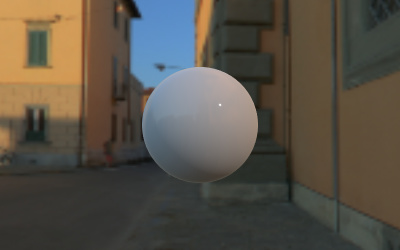
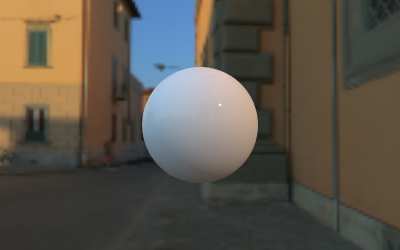
WebGLRenderer: Make use of SRGB8_ALPHA8. (#22551)
* WebGLRenderer: Make use of SRGB8_ALPHA8.

* Update screenshots.

* Updated builds.

* Revert "Update screenshots."

This reverts commit 9f7c6cb8ad2ba28515bd8ce909b661f14a59cf31.

* Update screenshots.

* Examples: Let SSRPass and SSRrPass work in linear space.

* Examples: Clean up.

* PMREMGenerator: Avoid inline decode/encode when using SRGB8_ALPHA8.

* Updated builds.

* Update screenshots.

* Revert "Updated builds."

This reverts commit 0fd81f8a8452323c0b21a880f6781e3456bf5fdb.

* Revert "Updated builds."

This reverts commit 447e88a55c47fd9163360c6be957b784d098f352.

Changed region(s): [[0.36, 0.252, 0.66, 0.644]]

diff --git a/src/renderers/webgl/WebGLTextures.js b/src/renderers/webgl/WebGLTextures.js
@@ -1,4 +1,4 @@
-import { LinearFilter, LinearMipmapLinearFilter, LinearMipmapNearestFilter, NearestFilter, NearestMipmapLinearFilter, NearestMipmapNearestFilter, RGBFormat, RGBAFormat, DepthFormat, DepthStencilFormat, UnsignedShortType, UnsignedIntType, UnsignedInt248Type, FloatType, HalfFloatType, MirroredRepeatWrapping, ClampToEdgeWrapping, RepeatWrapping } from '../../constants.js';
+import { LinearFilter, LinearMipmapLinearFilter, LinearMipmapNearestFilter, NearestFilter, NearestMipmapLinearFilter, NearestMipmapNearestFilter, RGBFormat, RGBAFormat, DepthFormat, DepthStencilFormat, UnsignedShortType, UnsignedIntType, UnsignedInt248Type, FloatType, HalfFloatType, MirroredRepeatWrapping, ClampToEdgeWrapping, RepeatWrapping, sRGBEncoding } from '../../constants.js';
 import * as MathUtils from '../../math/MathUtils.js';
 import { createElementNS } from '../../utils.js';
 
@@ -132,7 +132,7 @@ function WebGLTextures( _gl, extensions, state, properties, capabilities, utils,
 
 	}
 
-	function getInternalFormat( internalFormatName, glFormat, glType ) {
+	function getInternalFormat( internalFormatName, glFormat, glType, encoding ) {
 
 		if ( isWebGL2 === false ) return glFormat;
 
@@ -166,7 +166,7 @@ function WebGLTextures( _gl, extensions, state, properties, capabilities, utils,
 
 			if ( glType === _gl.FLOAT ) internalFormat = _gl.RGBA32F;
 			if ( glType === _gl.HALF_FLOAT ) internalFormat = _gl.RGBA16F;
-			if ( glType === _gl.UNSIGNED_BYTE ) internalFormat = _gl.RGBA8;
+			if ( glType === _gl.UNSIGNED_BYTE ) internalFormat = ( encoding === sRGBEncoding ) ? _gl.SRGB8_ALPHA8 : _gl.RGBA8;
 
 		}
 
@@ -532,7 +532,7 @@ function WebGLTextures( _gl, extensions, state, properties, capabilities, utils,
 			glFormat = utils.convert( texture.format );
 
 		let glType = utils.convert( texture.type ),
-			glInternalFormat = getInternalFormat( texture.internalFormat, glFormat, glType );
+			glInternalFormat = getInternalFormat( texture.internalFormat, glFormat, glType, texture.encoding );
 
 		setTextureParameters( textureType, texture, supportsMips );
 
@@ -758,7 +758,7 @@ function WebGLTextures( _gl, extensions, state, properties, capabilities, utils,
 			supportsMips = isPowerOfTwo( image ) || isWebGL2,
 			glFormat = utils.convert( texture.format ),
 			glType = utils.convert( texture.type ),
-			glInternalFormat = getInternalFormat( texture.internalFormat, glFormat, glType );
+			glInternalFormat = getInternalFormat( texture.internalFormat, glFormat, glType, texture.encoding );
 
 		setTextureParameters( _gl.TEXTURE_CUBE_MAP, texture, supportsMips );
 
@@ -857,7 +857,7 @@ function WebGLTextures( _gl, extensions, state, properties, capabilities, utils,
 
 		const glFormat = utils.convert( texture.format );
 		const glType = utils.convert( texture.type );
-		const glInternalFormat = getInternalFormat( texture.internalFormat, glFormat, glType );
+		const glInternalFormat = getInternalFormat( texture.internalFormat, glFormat, glType, texture.encoding );
 
 		if ( textureTarget === _gl.TEXTURE_3D || textureTarget === _gl.TEXTURE_2D_ARRAY ) {
 
@@ -938,7 +938,7 @@ function WebGLTextures( _gl, extensions, state, properties, capabilities, utils,
 
 			const glFormat = utils.convert( texture.format );
 			const glType = utils.convert( texture.type );
-			const glInternalFormat = getInternalFormat( texture.internalFormat, glFormat, glType );
+			const glInternalFormat = getInternalFormat( texture.internalFormat, glFormat, glType, texture.encoding );
 
 			if ( isMultisample ) {
 
@@ -1131,7 +1131,7 @@ function WebGLTextures( _gl, extensions, state, properties, capabilities, utils,
 
 					const glFormat = utils.convert( texture.format );
 					const glType = utils.convert( texture.type );
-					const glInternalFormat = getInternalFormat( texture.internalFormat, glFormat, glType );
+					const glInternalFormat = getInternalFormat( texture.internalFormat, glFormat, glType, texture.encoding );
 					const samples = getRenderTargetSamples( renderTarget );
 					_gl.renderbufferStorageMultisample( _gl.RENDERBUFFER, samples, glInternalFormat, renderTarget.width, renderTarget.height );
 

diff --git a/src/extras/PMREMGenerator.js b/src/extras/PMREMGenerator.js
@@ -8,6 +8,7 @@ import {
 	RGBDEncoding,
 	RGBEEncoding,
 	RGBEFormat,
+	RGBAFormat,
 	RGBM16Encoding,
 	RGBM7Encoding,
 	UnsignedByteType,
@@ -345,6 +346,20 @@ class PMREMGenerator {
 
 	}
 
+	_setEncoding( uniform, texture ) {
+
+		if ( this._renderer.capabilities.isWebGL2 === true && texture.format === RGBAFormat && texture.type === UnsignedByteType && texture.encoding === sRGBEncoding ) {
+
+			uniform.value = ENCODINGS[ LinearEncoding ];
+
+		} else {
+
+			uniform.value = ENCODINGS[ texture.encoding ];
+
+		}
+
+	}
+
 	_textureToCubeUV( texture, cubeUVRenderTarget ) {
 
 		const renderer = this._renderer;
@@ -380,8 +395,8 @@ class PMREMGenerator {
 
 		}
 
-		uniforms[ 'inputEncoding' ].value = ENCODINGS[ texture.encoding ];
-		uniforms[ 'outputEncoding' ].value = ENCODINGS[ cubeUVRenderTarget.texture.encoding ];
+		this._setEncoding( uniforms[ 'inputEncoding' ], texture );
+		this._setEncoding( uniforms[ 'outputEncoding' ], cubeUVRenderTarget.texture );
 
 		_setViewport( cubeUVRenderTarget, 0, 0, 3 * SIZE_MAX, 2 * SIZE_MAX );
 
@@ -512,8 +527,9 @@ class PMREMGenerator {
 
 		blurUniforms[ 'dTheta' ].value = radiansPerPixel;
 		blurUniforms[ 'mipInt' ].value = LOD_MAX - lodIn;
-		blurUniforms[ 'inputEncoding' ].value = ENCODINGS[ targetIn.texture.encoding ];
-		blurUniforms[ 'outputEncoding' ].value = ENCODINGS[ targetIn.texture.encoding ];
+
+		this._setEncoding( blurUniforms[ 'inputEncoding' ], targetIn.texture );
+		this._setEncoding( blurUniforms[ 'outputEncoding' ], targetIn.texture );
 
 		const outputSize = _sizeLods[ lodOut ];
 		const x = 3 * Math.max( 0, SIZE_MAX - 2 * outputSize );

diff --git a/examples/jsm/loaders/GLTFLoader.js b/examples/jsm/loaders/GLTFLoader.js
@@ -2761,30 +2761,12 @@ class GLTFParser {
 
 		let sourceURI = source.uri || '';
 		let isObjectURL = false;
-		let hasAlpha = true;
-
-		const isJPEG = sourceURI.search( /\.jpe?g($|\?)/i ) > 0 || sourceURI.search( /^data\:image\/jpeg/ ) === 0;
-
-		if ( source.mimeType === 'image/jpeg' || isJPEG ) hasAlpha = false;
 
 		if ( source.bufferView !== undefined ) {
 
 			// Load binary image data from bufferView, if provided.
 
 			sourceURI = parser.getDependency( 'bufferView', source.bufferView ).then( function ( bufferView ) {
-
-				if ( source.mimeType === 'image/png' ) {
-
-					// Inspect the PNG 'IHDR' chunk to determine whether the image could have an
-					// alpha channel. This check is conservative — the image could have an alpha
-					// channel with all values == 1, and the indexed type (colorType == 3) only
-					// sometimes contains alpha.
-					//
-					// https://en.wikipedia.org/wiki/Portable_Network_Graphics#File_header
-					const colorType = new DataView( bufferView, 25, 1 ).getUint8( 0, false );
-					hasAlpha = colorType === 6 || colorType === 4 || colorType === 3;
-
-				}
 
 				isObjectURL = true;
 				const blob = new Blob( [ bufferView ], { type: source.mimeType } );
@@ -2835,9 +2817,6 @@ class GLTFParser {
 			texture.flipY = false;
 
 			if ( textureDef.name ) texture.name = textureDef.name;
-
-			// When there is definitely no alpha channel in the texture, set RGBFormat to save space.
-			if ( ! hasAlpha ) texture.format = RGBFormat;
 
 			const samplers = json.samplers || {};
 			const sampler = samplers[ textureDef.sampler ] || {};

diff --git a/examples/webgl_postprocessing_ssr.html b/examples/webgl_postprocessing_ssr.html
@@ -27,6 +27,8 @@
 		import { GUI } from './jsm/libs/dat.gui.module.js';
 		import { EffectComposer } from './jsm/postprocessing/EffectComposer.js';
 		import { SSRPass } from './jsm/postprocessing/SSRPass.js';
+		import { ShaderPass } from './jsm/postprocessing/ShaderPass.js';
+		import { GammaCorrectionShader } from './jsm/shaders/GammaCorrectionShader.js';
 		import { ReflectorForSSRPass } from './jsm/objects/ReflectorForSSRPass.js';
 
 		import { DRACOLoader } from './jsm/loaders/DRACOLoader.js';
@@ -144,7 +146,6 @@
 			// renderer
 			renderer = new THREE.WebGLRenderer( { antialias: false } );
 			renderer.setSize( window.innerWidth, window.innerHeight );
-			renderer.outputEncoding = THREE.sRGBEncoding;
 			container.appendChild( renderer.domElement );
 
 			//
@@ -171,12 +172,12 @@
 				camera,
 				width: innerWidth,
 				height: innerHeight,
-				encoding: THREE.sRGBEncoding,
 				groundReflector: params.groundReflector ? groundReflector : null,
 				selects: params.groundReflector ? selects : null
 			} );
 
 			composer.addPass( ssrPass );
+			composer.addPass( new ShaderPass( GammaCorrectionShader ) );
 
 			// GUI
 

diff --git a/examples/webgl_postprocessing_ssrr.html b/examples/webgl_postprocessing_ssrr.html
@@ -28,6 +28,8 @@
 		import { GUI } from './jsm/libs/dat.gui.module.js';
 		import { EffectComposer } from './jsm/postprocessing/EffectComposer.js';
 		import { SSRrPass } from './jsm/postprocessing/SSRrPass.js';
+		import { ShaderPass } from './jsm/postprocessing/ShaderPass.js';
+		import { GammaCorrectionShader } from './jsm/shaders/GammaCorrectionShader.js';
 
 		import { DRACOLoader } from './jsm/loaders/DRACOLoader.js';
 
@@ -147,7 +149,6 @@
 			// renderer
 			renderer = new THREE.WebGLRenderer( { antialias: false } );
 			renderer.setSize( window.innerWidth, window.innerHeight );
-			renderer.outputEncoding = THREE.sRGBEncoding;
 			renderer.autoClear = false;
 			container.appendChild( renderer.domElement );
 
@@ -177,11 +178,11 @@
 				camera,
 				width: innerWidth,
 				height: innerHeight,
-				encoding: THREE.sRGBEncoding,
 				selects: selects
 			} );
 
 			composer.addPass( ssrrPass );
+			composer.addPass( new ShaderPass( GammaCorrectionShader ) );
 
 			// GUI
 

diff --git a/src/renderers/webgl/WebGLPrograms.js b/src/renderers/webgl/WebGLPrograms.js
@@ -1,4 +1,4 @@
-import { BackSide, DoubleSide, CubeUVRefractionMapping, CubeUVReflectionMapping, LinearEncoding, ObjectSpaceNormalMap, TangentSpaceNormalMap, NoToneMapping } from '../../constants.js';
+import { BackSide, DoubleSide, CubeUVRefractionMapping, CubeUVReflectionMapping, LinearEncoding, sRGBEncoding, ObjectSpaceNormalMap, TangentSpaceNormalMap, NoToneMapping, RGBAFormat, UnsignedByteType } from '../../constants.js';
 import { WebGLProgram } from './WebGLProgram.js';
 import { ShaderLib } from '../shaders/ShaderLib.js';
 import { UniformsUtils } from '../shaders/UniformsUtils.js';
@@ -103,6 +103,12 @@ function WebGLPrograms( renderer, cubemaps, cubeuvmaps, extensions, capabilities
 		} else {
 
 			encoding = LinearEncoding;
+
+		}
+
+		if ( isWebGL2 && map && map.isTexture && map.format === RGBAFormat && map.type === UnsignedByteType && map.encoding === sRGBEncoding ) {
+
+			encoding = LinearEncoding; // disable inline decode for sRGB textures in WebGL 2
 
 		}
 

diff --git a/examples/jsm/postprocessing/SSRPass.js b/examples/jsm/postprocessing/SSRPass.js
@@ -24,7 +24,7 @@ import { CopyShader } from '../shaders/CopyShader.js';
 
 class SSRPass extends Pass {
 
-	constructor( { renderer, scene, camera, width, height, selects, encoding, bouncing = false, groundReflector } ) {
+	constructor( { renderer, scene, camera, width, height, selects, bouncing = false, groundReflector } ) {
 
 		super();
 
@@ -43,8 +43,6 @@ class SSRPass extends Pass {
 
 		this.maxDistance = SSRShader.uniforms.maxDistance.value;
 		this.thickness = SSRShader.uniforms.thickness.value;
-
-		this.encoding = encoding;
 
 		this.tempColor = new Color();
 
@@ -359,7 +357,6 @@ class SSRPass extends Pass {
 
 		// render beauty and depth
 
-		if ( this.encoding ) this.beautyRenderTarget.texture.encoding = this.encoding;
 		renderer.setRenderTarget( this.beautyRenderTarget );
 		renderer.clear();
 		if ( this.groundReflector ) {

diff --git a/examples/jsm/postprocessing/SSRrPass.js b/examples/jsm/postprocessing/SSRrPass.js
@@ -24,7 +24,7 @@ import { CopyShader } from '../shaders/CopyShader.js';
 
 class SSRrPass extends Pass {
 
-	constructor( { renderer, scene, camera, width, height, selects, encoding } ) {
+	constructor( { renderer, scene, camera, width, height, selects } ) {
 
 		super();
 
@@ -43,8 +43,6 @@ class SSRrPass extends Pass {
 		this.ior = SSRrShader.uniforms.ior.value;
 		this.maxDistance = SSRrShader.uniforms.maxDistance.value;
 		this.surfDist = SSRrShader.uniforms.surfDist.value;
-
-		this.encoding = encoding;
 
 		this.tempColor = new Color();
 
@@ -274,7 +272,6 @@ class SSRrPass extends Pass {
 
 		// render beauty and depth
 
-		if ( this.encoding ) this.beautyRenderTarget.texture.encoding = this.encoding;
 		renderer.setRenderTarget( this.beautyRenderTarget );
 		renderer.clear();
 		this.scene.children.forEach( child => {

diff --git a/src/loaders/TextureLoader.js b/src/loaders/TextureLoader.js
@@ -1,4 +1,3 @@
-import { RGBAFormat, RGBFormat } from '../constants.js';
 import { ImageLoader } from './ImageLoader.js';
 import { Texture } from '../textures/Texture.js';
 import { Loader } from './Loader.js';
@@ -22,11 +21,6 @@ class TextureLoader extends Loader {
 		loader.load( url, function ( image ) {
 
 			texture.image = image;
-
-			// JPEGs can't have an alpha channel, so memory can be saved by storing them as RGB.
-			const isJPEG = url.search( /\.jpe?g($|\?)/i ) > 0 || url.search( /^data\:image\/jpeg/ ) === 0;
-
-			texture.format = isJPEG ? RGBFormat : RGBAFormat;
 			texture.needsUpdate = true;
 
 			if ( onLoad !== undefined ) {

diff --git a/src/textures/CubeTexture.js b/src/textures/CubeTexture.js
@@ -1,5 +1,5 @@
 import { Texture } from './Texture.js';
-import { CubeReflectionMapping, RGBFormat } from '../constants.js';
+import { CubeReflectionMapping } from '../constants.js';
 
 class CubeTexture extends Texture {
 
@@ -7,7 +7,6 @@ class CubeTexture extends Texture {
 
 		images = images !== undefined ? images : [];
 		mapping = mapping !== undefined ? mapping : CubeReflectionMapping;
-		format = format !== undefined ? format : RGBFormat;
 
 		super( images, mapping, wrapS, wrapT, magFilter, minFilter, format, type, anisotropy, encoding );
 

diff --git a/utils/build/rollup.config.js b/utils/build/rollup.config.js
@@ -158,7 +158,8 @@ export function glconstants() {
 		MAX_SAMPLES: 36183,
 		READ_FRAMEBUFFER: 36008,
 		DRAW_FRAMEBUFFER: 36009,
-		SAMPLE_ALPHA_TO_COVERAGE: 32926
+		SAMPLE_ALPHA_TO_COVERAGE: 32926,
+		SRGB8_ALPHA8: 35907
 	};
 
 	return {
